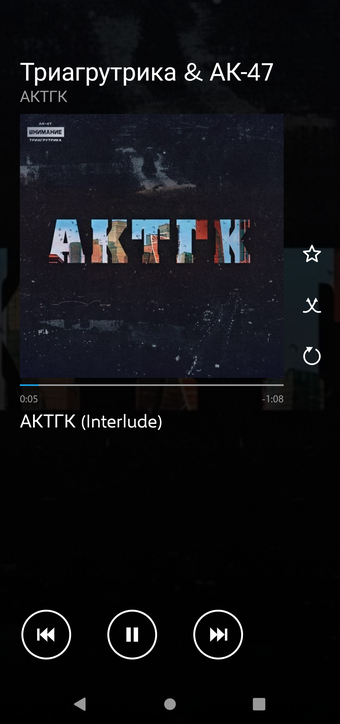
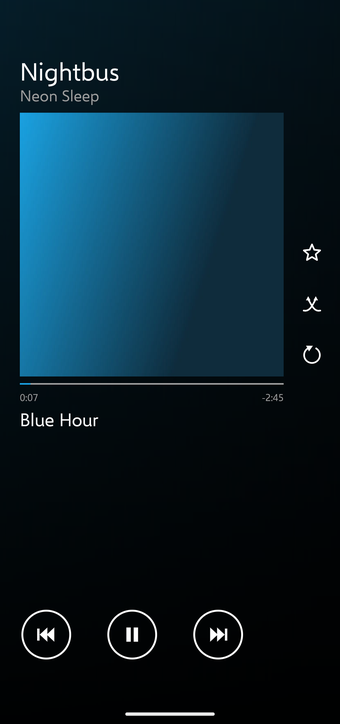
Screenshots with nothing borrowed in the frame
The player was showing the owner's own rip — real cover art and a real band in a
public README is somebody's copyright, and a test rig is a poor advertisement
besides: the artists section read "FLAC 24" and "Order Test". All three shots now
use a wholly invented library, ffmpeg gradients for covers, and the ALAC album is
off the emulator.

Taken at the device's own density, with the gesture pill rather than the three
buttons, like the framework's. The first is the start screen with the beginning of
the title in it, running off the right edge as a WP8 panorama title does; the
second is the player; the third is the albums section caught mid-swipe, where the
panorama's title wraps round to its own beginning.

diff --git a/README.md b/README.md
@@ -13,9 +13,9 @@ switchable off.
 
 `minSdk 26` · `compileSdk 36` · Kotlin and Compose · GPLv3
 
-| collection | now playing | jump grid |
+| start | now playing | panorama ∞ |
 |:---:|:---:|:---:|
-| ![The albums section of the panorama, covers beside their titles, the next section's header leaning in from the right](docs/screen-collection.png) | ![The player: artwork over a blurred backdrop of itself, a hairline progress line and ringed transport buttons](docs/screen-player.png) | ![The jump grid open over the whole screen, a tile per letter in both the Latin and Cyrillic alphabets](docs/screen-jump.png) |
+| ![The start screen: a large lowercase title over the artists section, alphabetical with a tile per letter, Latin and Cyrillic together](docs/screen-start.png) | ![The player: cover art over a backdrop of itself, a hairline progress line, and ringed transport buttons at the bottom](docs/screen-player.png) | ![The albums section mid-swipe, covers beside their titles, the panorama's title wrapping round to its own beginning](docs/screen-albums.png) |
 
 ## What it does
 
